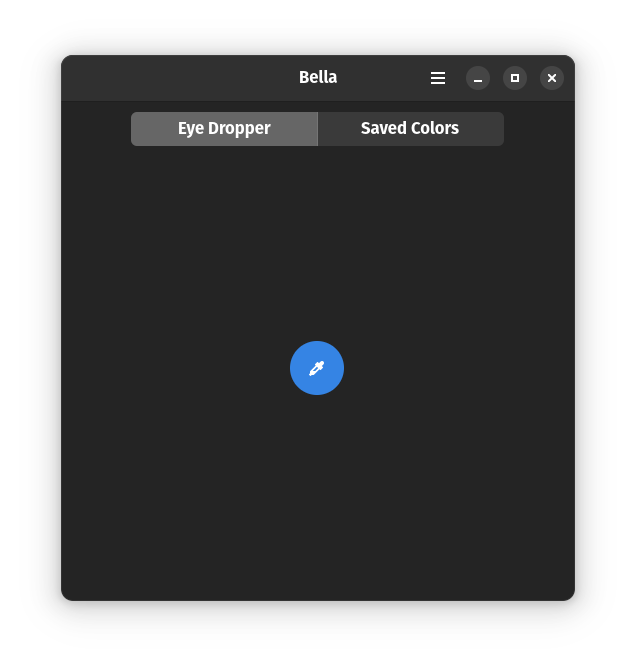
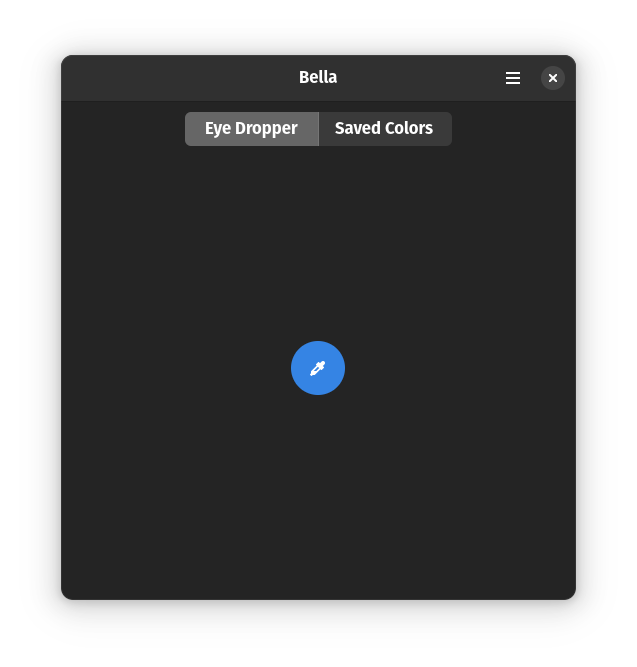
chore: update screenshots and UI

diff --git a/src/utils/utils.js b/src/utils/utils.js
@@ -78,7 +78,7 @@ export const colorFormats = [
   { key: "name", description: "Name" },
   { key: "hex", description: "Hex" },
   { key: "rgb", description: "RGB" },
-  { key: "rgb_percent", description: "RGB percent" },
+  { key: "rgb_percent", description: "RGB Percent" },
   { key: "hsl", description: "HSL" },
   { key: "hsv", description: "HSV" },
 ];

diff --git a/README.md b/README.md
@@ -5,21 +5,27 @@
 <h1 align="center">Bella</h1>
 <p align="center">Pick color from anywhere on your sceen</p>
 <p align="center">
-  <img src="./screenshots/eye-dropper-view-dark.png" alt="Bella eye dropper view dark theme" width="636" height="668"/>
+  <img src="./screenshots/eye-dropper-view-dark.png" alt="Bella eye dropper view dark theme" width="637" height="667"/>
 </p>
 <div align="center">
   <details>
     <summary>More screenshots</summary>
     <p>
-      <img src="./screenshots/eye-dropper-view-light.png" alt="Bella eye dropper view light theme" width="636" height="668"/>
+      <img src="./screenshots/eye-dropper-view-light.png" alt="Bella eye dropper view light theme" width="637" height="667"/>
     </p>
     <p>
-      <img src="./screenshots/list-view-light.png" alt="Bella color picker list view light theme" width="636" height="668"/>
+      <img src="./screenshots/list-view-light.png" alt="Bella color picker list view light theme" width="637" height="667"/>
+    </p>
+    <p>
+      <img src="./screenshots/details-view-dark.png" alt="Bella color picker details view dark theme" width="637" height="667"/>
+    </p>
+    <p>
+      <img src="./screenshots/details-view-light.png" alt="Bella color picker details view light theme" width="637" height="667"/>
     </p>
   </details>
 </div>
 <p align="center">
-  <img src="./screenshots/list-view-dark.png" alt="Bella list view light theme" width="636" height="668"/>
+  <img src="./screenshots/list-view-dark.png" alt="Bella list view light theme" width="637" height="667"/>
 </p>
 
 <!-- markdownlint-enable -->
